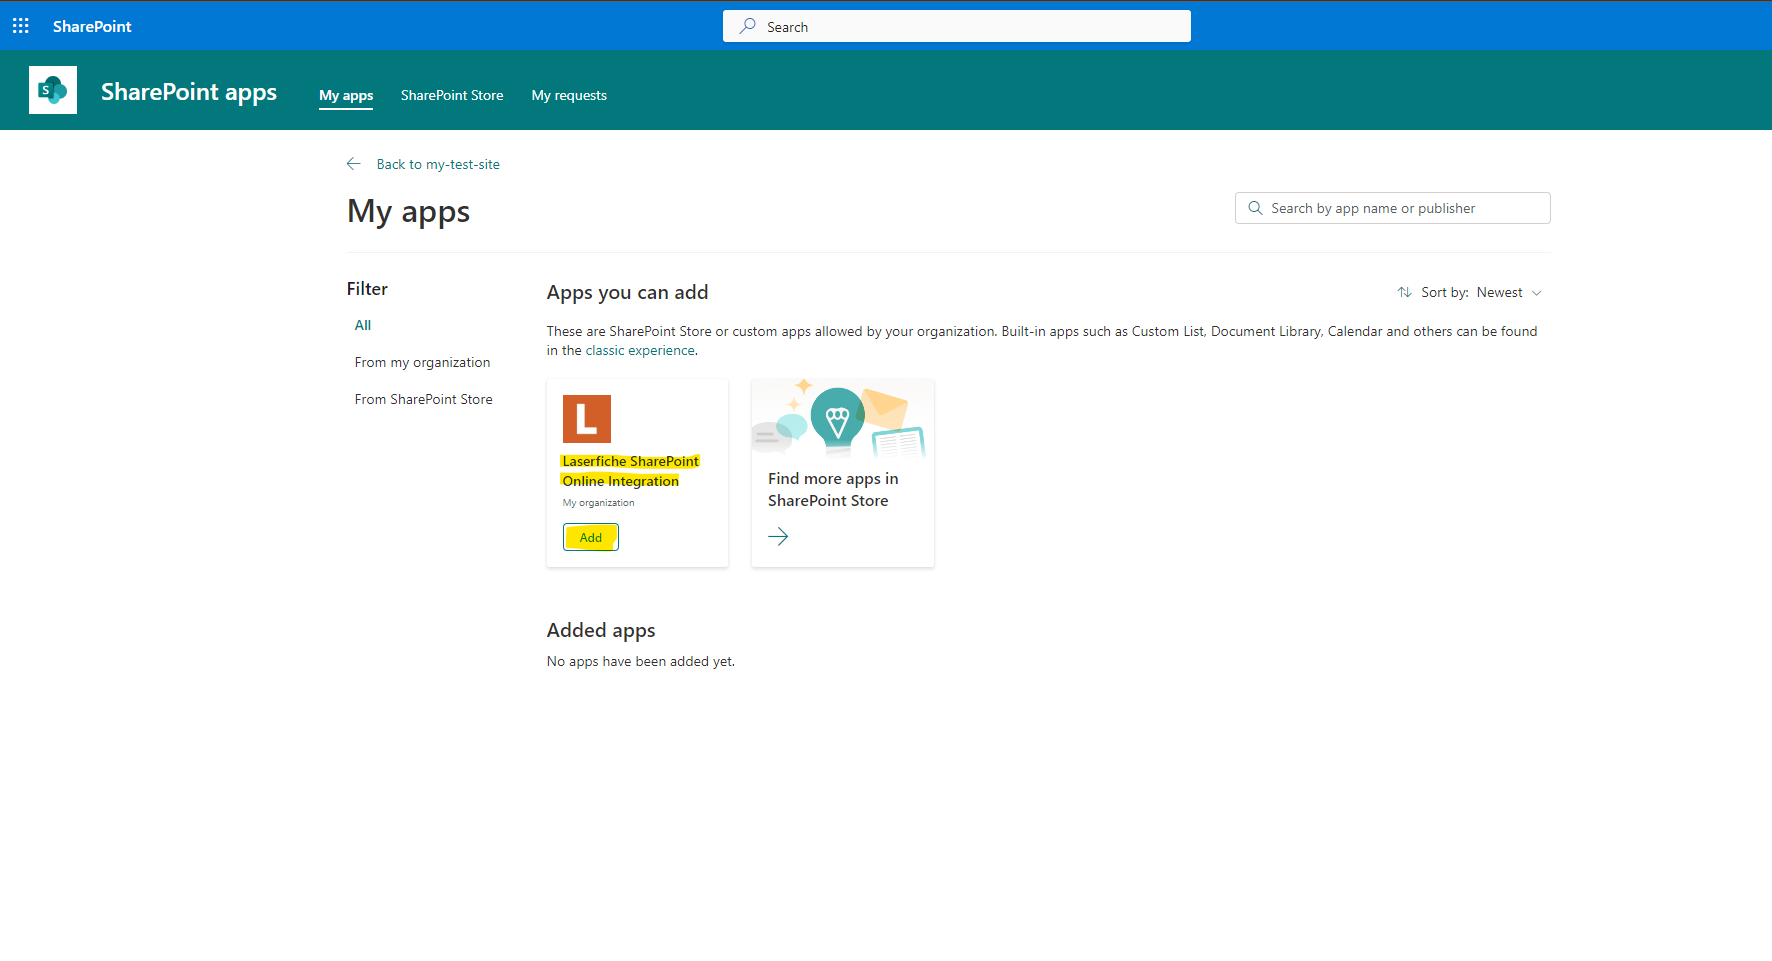
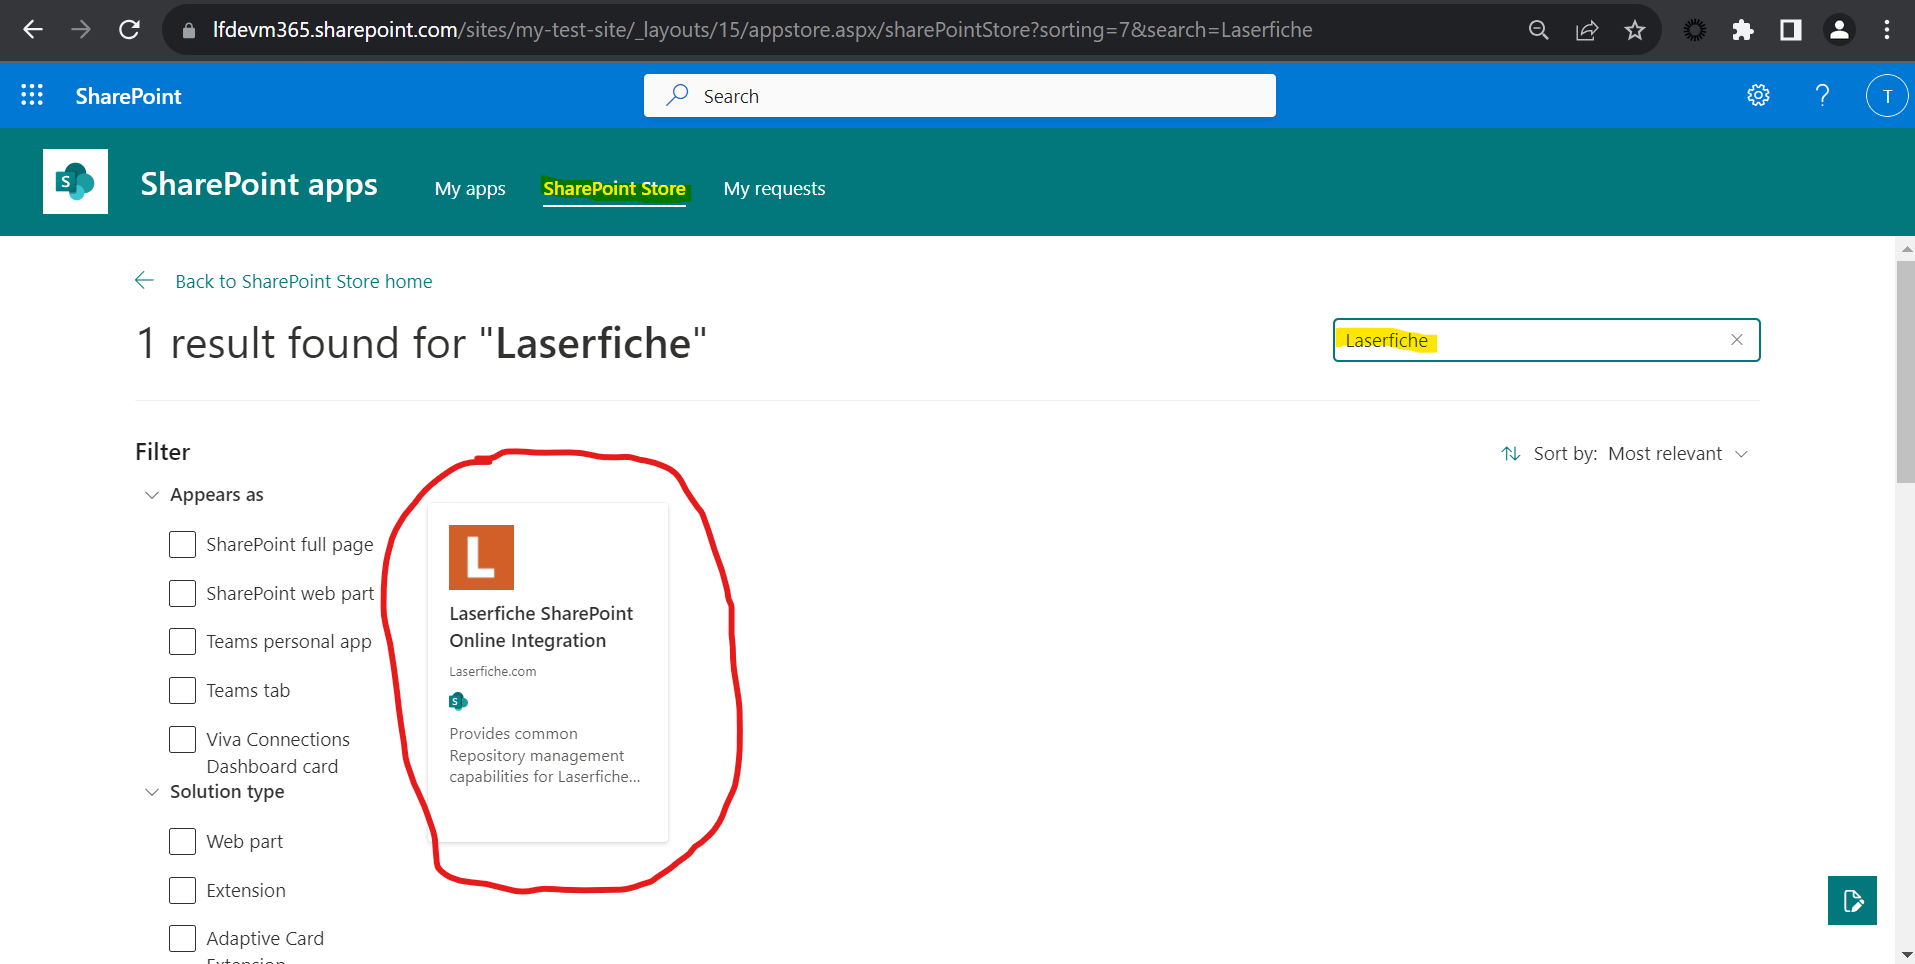
updated instructions for adding app to LF

diff --git a/jekyll_files/docs/admin-documentation/adding-app-to-sp-site.md b/jekyll_files/docs/admin-documentation/adding-app-to-sp-site.md
@@ -1,7 +1,7 @@
 ---
 layout: default
 title: Adding App to SharePoint Site
-nav_order: 2
+nav_order: 1
 parent: Laserfiche SharePoint Integration Administration Guide
 ---
 
@@ -10,20 +10,15 @@ parent: Laserfiche SharePoint Integration Administration Guide
 ### Prerequisites
 
 - Be an owner of a SharePoint site you want to add the integration to.
-- The site must exist in an organization which has the integration installed. (see [Adding App to Organization](./adding-app-organization))
 
 ### Steps
 
 1. Go to the SharePoint site that you would like to install the integration on. If you do not have a SharePoint site already, you can find instructions [here](https://support.microsoft.com/en-gb/office/create-a-site-in-sharepoint-4d1e11bf-8ddc-499d-b889-2b48d10b1ce8){:target="_blank"} on how to create one.
-1. Navigate to the app catalog by clicking on the "Site contents" item in the
-   navigation bar.
-   <a href="../assets/images/sharePointSiteContents.png"><img src="../assets/images/sharePointSiteContents.png"></a>
-1. Open the "New" Dropdown menu by clicking on the "+" icon.
-   <a href="../assets/images/NewDropDown.png"><img src="../assets/images/NewDropDown.png"></a>
-1. Add the App named “Laserfiche SharePoint Online Integration”.
+1. Open the SharePoint Store and add the app named “Laserfiche SharePoint Online Integration”. For instructions on how to add an app, reference [Microsoft's Documentation](https://learn.microsoft.com/en-us/sharepoint/use-app-catalog?redirectSourcePath=%252farticle%252fuse-the-app-catalog-to-make-custom-business-apps-available-for-your-sharepoint-online-environment-0b6ab336-8b83-423f-a06b-bcc52861cba0#add-custom-apps){:target="_blank"}.
    <a href="../assets/images/addTheApp.png"><img src="../assets/images/addTheApp.png"></a>
 1. Navigate to your SharePoint site. If successfully installed, the app will be listed under the “Site contents” tab.
    <a href="../assets/images/appInstalled.png"><img src="../assets/images/appInstalled.png"></a>
+**Note:** You can also [sideload the app](https://learn.microsoft.com/en-us/sharepoint/use-app-catalog?redirectSourcePath=%252farticle%252fuse-the-app-catalog-to-make-custom-business-apps-available-for-your-sharepoint-online-environment-0b6ab336-8b83-423f-a06b-bcc52861cba0#add-custom-apps){:target="_blank"} by uploading  [this solution file](../assets/LaserficheSharePointOnlineIntegration.sppkg).
 
 ### The Laserfiche Sign In Page
 

diff --git a/jekyll_files/docs/admin-documentation/configuring-metadata-mappings.md b/jekyll_files/docs/admin-documentation/configuring-metadata-mappings.md
@@ -1,7 +1,7 @@
 ---
 layout: default
 title: Configuring Metadata Mappings
-nav_order: 4
+nav_order: 3
 parent: Laserfiche SharePoint Integration Administration Guide
 ---
 

diff --git a/jekyll_files/docs/admin-documentation/register-app-in-laserfiche.md b/jekyll_files/docs/admin-documentation/register-app-in-laserfiche.md
@@ -1,7 +1,7 @@
 ---
 layout: default
 title: Registering App in Laserfiche
-nav_order: 3
+nav_order: 2
 parent: Laserfiche SharePoint Integration Administration Guide
 ---
 
